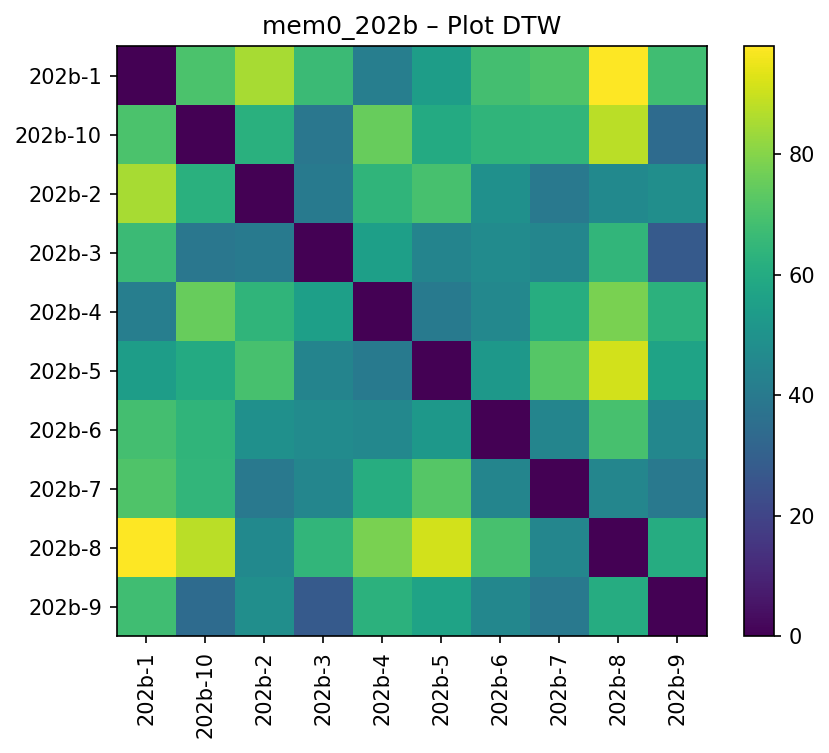
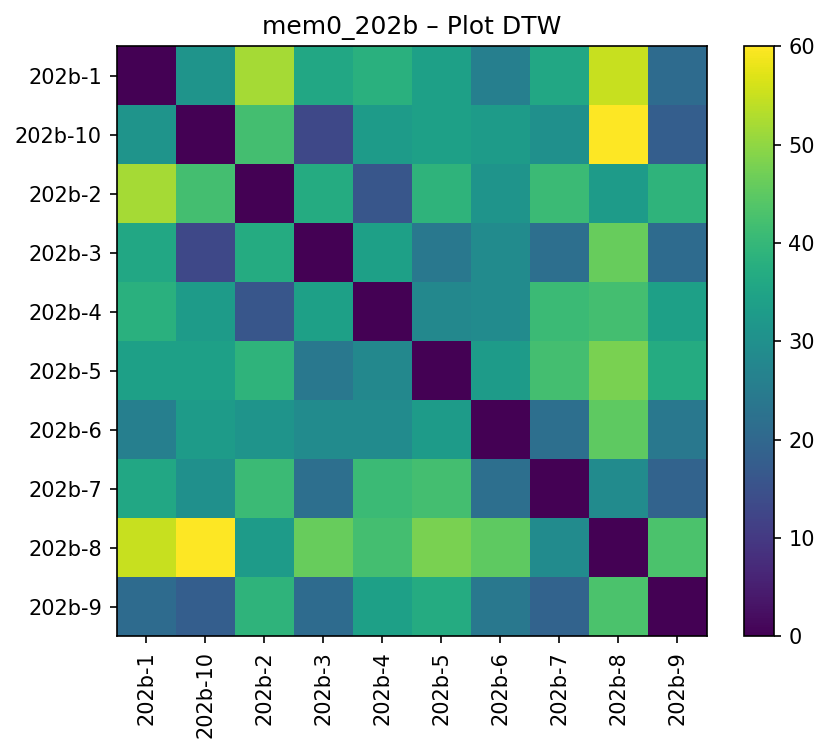
update: twist pic

diff --git a/test_twist.py b/test_twist.py
@@ -1,210 +1,166 @@
+import os, json, glob, argparse, sys
+from typing import List, Tuple, Optional
+
 import numpy as np
-import os
-import matplotlib.pyplot as plt
 import ruptures as rpt
+import matplotlib.pyplot as plt
 from matplotlib.patches import Patch
 
-def _cap_params(n, k, min_size, model="rbf"):
-    m = max(1, int(min_size))
-    if model == "rbf" and m < 2:
-        m = 2
-    k_max = max(0, n // m - 1)   
-    if k > k_max:
-        print(f"[warn] k={k} > k_max={k_max} (n={n}, min_size={m})，自動下修為 {k_max}")
-        k = k_max
-    return k, m
+# --- Embeddings ---
+def _lazy_import_st():
+    try:
+        from sentence_transformers import SentenceTransformer
+        return SentenceTransformer
+    except Exception as e:
+        print("[error] sentence-transformers not installed. Please run:", file=sys.stderr)
+        print("   pip install sentence-transformers", file=sys.stderr)
+        raise
 
+def embed_texts(texts: List[str], model_name: str = "all-MiniLM-L6-v2", device: Optional[str] = None) -> np.ndarray:
+    SentenceTransformer = _lazy_import_st()
+    model = SentenceTransformer(model_name, device=device)
+    clean = [(t or "").strip() for t in texts]
+    embs = model.encode(clean, convert_to_numpy=True, normalize_embeddings=True, show_progress_bar=False)
+    return embs.astype(np.float32)
+
+def novelty_from_embeddings(embs: np.ndarray) -> np.ndarray:
+    """
+    v_t = 1 - cos(e_t, e_{t-1}),  v_1 = 0
+    """
+    n = embs.shape[0]
+    v = np.zeros(n, dtype=np.float32)
+    if n <= 1:
+        return v
+    dots = np.sum(embs[1:] * embs[:-1], axis=1)
+    v[1:] = 1.0 - np.clip(dots, -1.0, 1.0)
+    return v
+
+def load_chapters(json_path: str) -> Tuple[List[str], List[str], str]:
+    with open(json_path, "r", encoding="utf-8") as f:
+        data = json.load(f)
+    story_id = str(data.get("story_id") or os.path.splitext(os.path.basename(json_path))[0])
+    chs = data.get("chapters") or []
+    if not isinstance(chs, list) or len(chs) == 0:
+        raise ValueError(f"{json_path} has no 'chapters' array.")
+    texts, ids = [], []
+    for i, ch in enumerate(chs, start=1):
+        txt = (ch.get("text") or "").strip()
+        if not txt:
+            raise ValueError(f"{json_path} chapter {i} has empty 'text'; cannot compute embeddings without text.")
+        texts.append(txt)
+        ids.append(str(ch.get("id") or i))
+    return texts, ids, story_id
+
+# --- Segmentation + plotting ---
 def _ensure_last_n(bkps, n):
     if not bkps or bkps[-1] != n:
         bkps = [b for b in bkps if 0 < b < n] + [n]
     return bkps
 
-def segment_plot_1d(values, chapter_ids=None, *, 
-                    mode="k", k=1, pen=1, cuts=None,
-                    min_size=2, model="rbf",
-                    fig_path="seg1d.png", title=None):
+def segment_and_plot(values: np.ndarray,
+                     chapter_ids: List[str],
+                     *, mode: str = "pen", pen: float = 0.2,
+                     min_size: int = 2, model: str = "rbf",
+                     fig_path: str = "seg1d.png", title: Optional[str] = None) -> List[int]:
 
     v = np.asarray(values).reshape(-1, 1)
     n = v.shape[0]
-    if chapter_ids is None:
-        chapter_ids = [str(i+1) for i in range(n)]
     if n == 0:
-        raise ValueError("空資料")
-    if n == 1:
-        bkps = [1]
-        seg_bounds = [(0, 1)]
-        _plot_1d(v, bkps, chapter_ids, title or "Fixed k=0 (segments=1)", fig_path)
-        print(f"[info] change-points: []  (segments=1)")
-        return bkps
+        raise ValueError("empty series")
 
-    if mode == "cuts":
-        bkps = _ensure_last_n(sorted(cuts or []), n)
-        used_k, used_min = len(bkps)-1, min_size
-    elif mode == "pen":
-        # PELT 
+    if mode == "pen":
         bkps = rpt.Pelt(model=model, min_size=max(1, min_size)).fit(v).predict(pen=pen)
-        bkps = _ensure_last_n(bkps, n)
-        used_k, used_min = len(bkps)-1, min_size
-    elif mode == "k":
-        # 固定刀數
-        k, m = _cap_params(n, int(k), min_size, model=model)
-        if k == 0:
-            bkps = [n]
-        else:
-            try:
-                bkps = rpt.Binseg(model=model, min_size=m).fit(v).predict(n_bkps=k)
-            except Exception:
-                bkps = rpt.Dynp(model=model, min_size=m).fit(v).predict(n_bkps=k)
-        bkps = _ensure_last_n(bkps, n)
-        used_k, used_min = k, m
     else:
-        raise ValueError("mode 必須是 'k'、'pen' 或 'cuts'")
+        raise ValueError("Only 'pen' mode is supported in this script.")
+    bkps = _ensure_last_n(bkps, n)
 
-    #  繪圖 
     if title is None:
-        if mode == "k":
-            title = f"Fixed k={used_k} (segments={used_k+1}), min_size={used_min}"
-        elif mode == "pen":
-            title = f"PELT pen={pen} (segments={len(bkps)})"
-        else:
-            title = f"Manual cuts {bkps[:-1]} (segments={len(bkps)})"
-
-    _plot_1d(v, bkps, chapter_ids, title, fig_path)
-
-    cps = bkps[:-1]
-    print(f"[info] change-points: {cps}  (segments={len(bkps)})")
-    for j, cp in enumerate(cps, 1):
-        li, ri = cp-1, cp
-        print(f"  cp{j} = {cp}  between chapter_ids[{li}]={chapter_ids[li]} and chapter_ids[{ri}]={chapter_ids[ri]}")
-    print(f"saved figure -> {fig_path}")
-    return bkps
-
-def _plot_1d(v, bkps, chapter_ids, title, fig_path):
-    n = v.shape[0]
-    ends = bkps                      # e.g. [cp1, cp2, n]
-    seg_bounds = list(zip([0] + ends[:-1], ends))
-    cmap = plt.get_cmap("tab20")
-    seg_colors = [cmap(i % cmap.N) for i in range(len(seg_bounds))]
+        title = f"PELT pen={pen} (segments={len(bkps)}) – signal=embed_novelty"
 
     x = np.arange(n)
-    fig, ax = plt.subplots(1, 1, figsize=(12, 4), sharex=True)
+    fig, ax = plt.subplots(1, 1, figsize=(12, 4))
     ax.plot(x, v[:, 0], marker='o', linewidth=1.6)
 
-    # 每段不同底色 
-    for (s, e), color in zip(seg_bounds, seg_colors):
-        ax.axvspan(s - 0.5, e - 0.5, alpha=0.25, facecolor=color, linewidth=0)
+    ends = bkps
+    seg_bounds = list(zip([0] + ends[:-1], ends))
+    colors = ["#DDEEFF", "#FFEDD5", "#E6FFE6", "#FFF0F6", "#FFF9DD", "#E0E0FF", "#FFDDEE"]
+    for i, (s, e) in enumerate(seg_bounds):
+        ax.axvspan(s - 0.5, e - 0.5, alpha=0.25, facecolor=colors[i % len(colors)], linewidth=0)
     for b in ends[:-1]:
         ax.axvline(b - 0.5, linestyle='--', linewidth=1.2)
 
-    ax.set_ylabel("Value", rotation=0, ha="right", va="center")
-    ax.grid(True, linewidth=0.5, alpha=0.4)
+    ax.set_ylabel("Novelty", rotation=0, ha="right", va="center")
     ax.set_xticks(x)
-    ax.set_xticklabels(chapter_ids, rotation=0)
+    ax.set_xticklabels(chapter_ids)
+    ax.grid(True, linewidth=0.5, alpha=0.4)
 
-    patches = [Patch(facecolor=seg_colors[i], edgecolor='none',
-                     label=f"Seg {i+1}: {chapter_ids[s]}-{chapter_ids[e-1]}")
-               for i, (s, e) in enumerate(seg_bounds)]
-    fig.legend(handles=patches, loc='upper center',
-               ncol=min(6, len(patches)), frameon=False, bbox_to_anchor=(0.5, 1.05))
+    # import matplotlib.patches as mpatches
+    # patches = [mpatches.Patch(alpha=0.25, facecolor=colors[i % len(colors)],
+    #                           label=f"Seg {i+1}: {chapter_ids[s]}-{chapter_ids[e-1]}")
+    #            for i, (s, e) in enumerate(seg_bounds)]
+    # fig.legend(handles=patches, loc='upper center',
+    #            ncol=min(6, len(patches)), frameon=False, bbox_to_anchor=(0.5, 1.05))
 
-    plt.suptitle(title, y=0.98)
+    plt.suptitle(title, y=0.92, fontsize=20)
     plt.tight_layout(rect=[0, 0, 1, 0.92])
     plt.savefig(fig_path, dpi=150, bbox_inches="tight")
     plt.close(fig)
-    
-import os, json, glob, math
-import numpy as np
-from typing import Tuple, List, Any
+    return bkps
 
-
-def _coerce_float(x: Any) -> float | None:
-    try:
-        if x is None: return None
-        v = float(x)
-        if math.isfinite(v):
-            return v
-    except Exception:
-        return None
-    return None
-
-def _extract_from_chapter(ch: dict) -> float | None:
-    for key in ("value", "pc1", "score"):
-        v = _coerce_float(ch.get(key))
-        if v is not None:
-            return v
-    # 退回：用字數作為一維值
-    txt = (ch.get("text") or "").strip()
-    if txt:
-        return float(len(txt.split()))
-    return None
-
-def load_values_from_json(json_path: str) -> Tuple[List[float], List[str], str]:
-  
-    with open(json_path, "r", encoding="utf-8") as f:
-        data = json.load(f)
-
-    story_id = str(data.get("story_id") or os.path.splitext(os.path.basename(json_path))[0])
-
-    if "values" in data:
-        values = data["values"]
-        chapter_ids = data.get("chapter_ids") or [str(i + 1) for i in range(len(values))]
-        values = [float(x) for x in values]  # 轉 float
-        return values, chapter_ids, story_id
-
-    chs = data.get("chapters") or []
-    if not isinstance(chs, list) or len(chs) == 0:
-        raise ValueError(f"{json_path} 沒有 values，也沒有 chapters 可萃取")
-
-    values: List[float] = []
-    chapter_ids: List[str] = []
-    for i, ch in enumerate(chs, start=1):
-        v = _extract_from_chapter(ch)
-        if v is None:
-            v = 0.0
-        values.append(float(v))
-        chapter_ids.append(str(ch.get("id") or i))
-
-    return values, chapter_ids, story_id
-
-def run_one(json_path: str,
-            mode="k", k=1, pen=1, min_size=1,
-            out_dir="out_twist") -> str:
-    values, chapter_ids, story_id = load_values_from_json(json_path)
+def run_file(json_path: str,
+             pen: float = 0.2,
+             model_name: str = "all-MiniLM-L6-v2",
+             device: Optional[str] = None,
+             out_dir: str = "out_twist",
+             min_size: int = 2) -> str:
+    texts, chapter_ids, story_id = load_chapters(json_path)
     os.makedirs(out_dir, exist_ok=True)
     fig_path = os.path.join(out_dir, f"{story_id}_twist.png")
 
-    title = f"{story_id} – mode={mode}" + (f", k={k}" if mode=="k" else f", pen={pen}")
-    segment_plot_1d(
-        values,
-        chapter_ids,
-        mode=mode,
-        k=k,
-        pen=pen,
-        min_size=min_size,
-        fig_path=fig_path,
-        title=title
+    embs = embed_texts(texts, model_name=model_name, device=device)
+    novelty = novelty_from_embeddings(embs)
+
+    mu, sd = float(np.mean(novelty)), float(np.std(novelty))
+    novelty_z = (novelty - mu) / sd if sd > 0 else novelty
+
+    title = f"With mem0 Plot analyze"
+    segment_and_plot(
+        novelty_z, chapter_ids,
+        mode="pen", pen=pen, min_size=min_size, model="rbf",
+        fig_path=fig_path, title=title
     )
     print("saved figure ->", os.path.abspath(fig_path))
     return fig_path
 
-def run_folder(folder: str,
-               pattern: str = "*.json",
-               **kwargs) -> None:
+def run_folder(folder: str, pattern: str = "*.json", **kwargs) -> None:
+    import glob
     paths = sorted(glob.glob(os.path.join(folder, pattern)))
-    if not paths:
-        print(f"[warn] {folder} 下找不到 {pattern}")
-        return
-    print(f"[info] 批次處理 {len(paths)} 個 JSON")
+    print(f"[info] {folder} files: {len(paths)}")
     for p in paths:
         try:
-            print(f"\n=== {p} ===")
-            run_one(p, **kwargs)
+            print(f"=== {p} ===")
+            run_file(p, **kwargs)
         except Exception as e:
             print(f"[error] {p}: {e}")
 
-if __name__ == "__main__":
-    # 跑單一檔
-    # run_one("data/mem0_101a/101a-1.json", mode="k", k=1, min_size=1)
+def main():
+    import argparse
+    ap = argparse.ArgumentParser()
+    g = ap.add_mutually_exclusive_group(required=True)
+    g.add_argument("--file", type=str)
+    g.add_argument("--folder", type=str)
+    ap.add_argument("--pattern", type=str, default="*.json")
+    ap.add_argument("--pen", type=float, default=0.2)
+    ap.add_argument("--model", type=str, default="all-MiniLM-L6-v2")
+    ap.add_argument("--device", type=str, default=None)
+    ap.add_argument("--min_size", type=int, default=2)
+    ap.add_argument("--out_dir", type=str, default="out_twist")
+    args = ap.parse_args()
 
-    # 整個資料夾
-    run_folder("data/none_101a", pattern="*.json", mode="k", k=1, min_size=1)
+    if args.file:
+        run_file(args.file, pen=args.pen, model_name=args.model, device=args.device, out_dir=args.out_dir, min_size=args.min_size)
+    else:
+        run_folder(args.folder, pattern=args.pattern, pen=args.pen, model_name=args.model, device=args.device, out_dir=args.out_dir, min_size=args.min_size)
+
+if __name__ == "__main__":
+    main()

diff --git a/test_diversity.py b/test_diversity.py
@@ -163,7 +163,7 @@ def dtw_distance(a: List[float], b: List[float]) -> float:
     if not _HAS_FDTW:
         # fallback: euclidean between resampled vectors
         return float(np.linalg.norm(resample_1d(a, 100) - resample_1d(b, 100)))
-    dist, _ = fastdtw(a, b, dist=euclidean)
+    dist, _ = fastdtw(a, b, dist=lambda x, y: abs(float(x) - float(y)))
     return float(dist)
 
 # emotion arc via HF pipeline (optional)
@@ -429,22 +429,13 @@ def main():
         means = [r["SDI"] for r in rows]
         los   = means[:]  # no bootstrap per-group by default (we have only one SDI per group)
         his   = means[:]
-        plot_bar_with_ci(groups, means, los, his, "Story Diversity Index (SDI)", "SDI (0~1)", str(Path(args.out_dir) / "SDI_by_group.png"))
-
-        # Self-BLEU (lower better) & Distinct-2 (higher better)
-        plot_bar_with_ci(groups, [r["selfbleu"] for r in rows], [r["selfbleu"] for r in rows], [r["selfbleu"] for r in rows],
-                         "Self-BLEU (lower=more diverse)", "Self-BLEU", str(Path(args.out_dir) / "SelfBLEU_by_group.png"))
-        plot_bar_with_ci(groups, [r["distinct2"] for r in rows], [r["distinct2"] for r in rows], [r["distinct2"] for r in rows],
-                         "Distinct-2 (higher=more diverse)", "Distinct-2", str(Path(args.out_dir) / "Distinct2_by_group.png"))
 
         # Emotion / Plot MPD (may be None)
         if any(r["emo_mpd"] is not None for r in rows):
             vals = [ (r["emo_mpd"] if r["emo_mpd"] is not None else 0.0) for r in rows ]
-            plot_bar_with_ci(groups, vals, vals, vals, "Emotion-arc MPD (higher=more diverse)", "DTW distance", str(Path(args.out_dir) / "EmoMPD_by_group.png"))
         if any(r["plot_mpd"] is not None for r in rows):
             vals = [ (r["plot_mpd"] if r["plot_mpd"] is not None else 0.0) for r in rows ]
-            plot_bar_with_ci(groups, vals, vals, vals, "Plot-arc MPD (higher=more diverse)", "DTW distance", str(Path(args.out_dir) / "PlotMPD_by_group.png"))
-
+            
     print("[done]")
 
 if __name__ == "__main__":

diff --git a/test_emotions.py b/test_emotions.py
@@ -73,11 +73,11 @@ def process_json(json_path, out_dir, pen=12.0, model="rbf", min_size=2):
         ax.grid(True, alpha=0.3)
     axes[-1].set_xticks(x)
     axes[-1].set_xticklabels(chapter_ids)
-    fig.suptitle(f"{Path(json_path).stem} – PELT pen={pen} (segments={len(bkps)})", y=0.98)
+    fig.suptitle(f"Without mem0 Emotion analyze", y=0.94, fontsize=20)
     plt.tight_layout(rect=[0, 0, 1, 0.96])
 
     out_dir = Path(out_dir); out_dir.mkdir(parents=True, exist_ok=True)
-    out_png = out_dir / f"{Path(json_path).stem}_emo_pen{int(pen)}.png"
+    out_png = out_dir / f"{Path(json_path).stem}_emo.png"
     plt.savefig(out_png, dpi=150, bbox_inches="tight")
     plt.close(fig)
     print(f"[ok] -> {out_png}")
@@ -94,5 +94,5 @@ if __name__ == "__main__":
     import sys
     in_dir  = sys.argv[1] if len(sys.argv) > 1 else "data/none_101a"
     pen     = float(sys.argv[2]) if len(sys.argv) > 2 else 0.2
-    out_dir = "out_emo/none_101a"         
+    out_dir = "out_emo/none_101a"
     process_dir(in_dir, out_root=out_dir, pen=pen, model="rbf", min_size=2)
